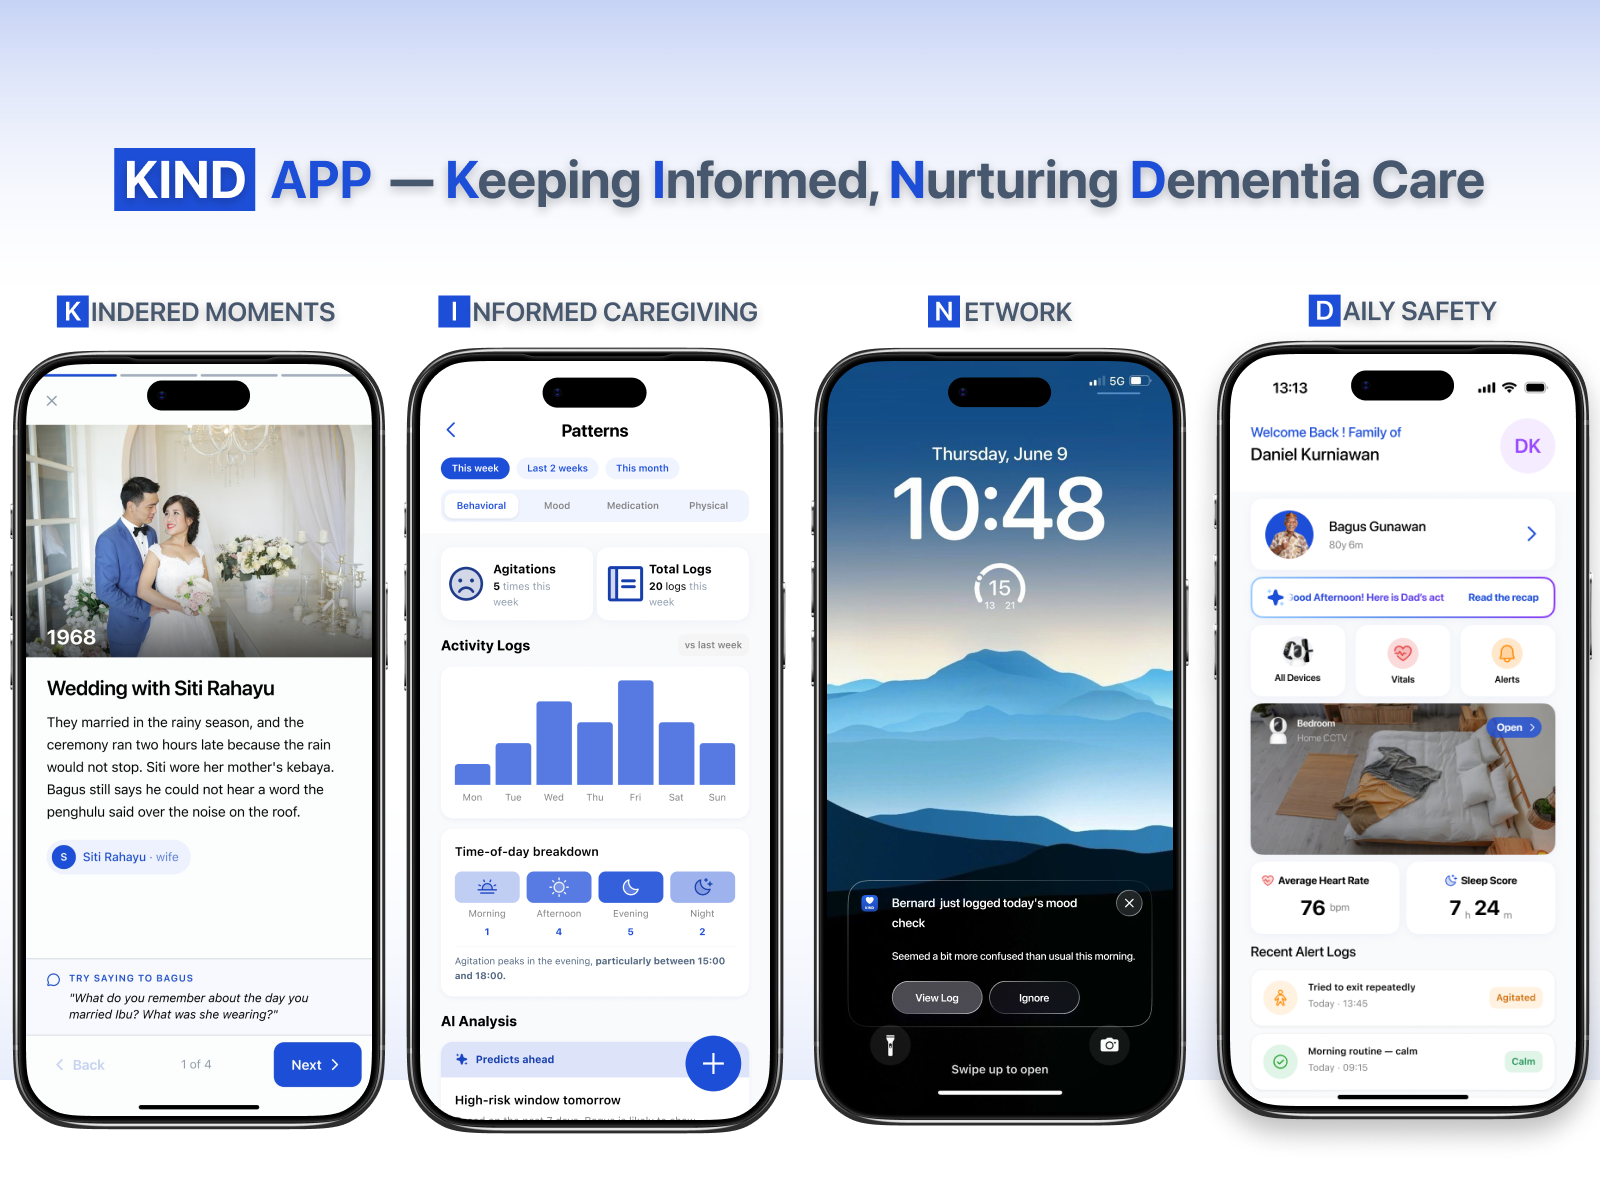
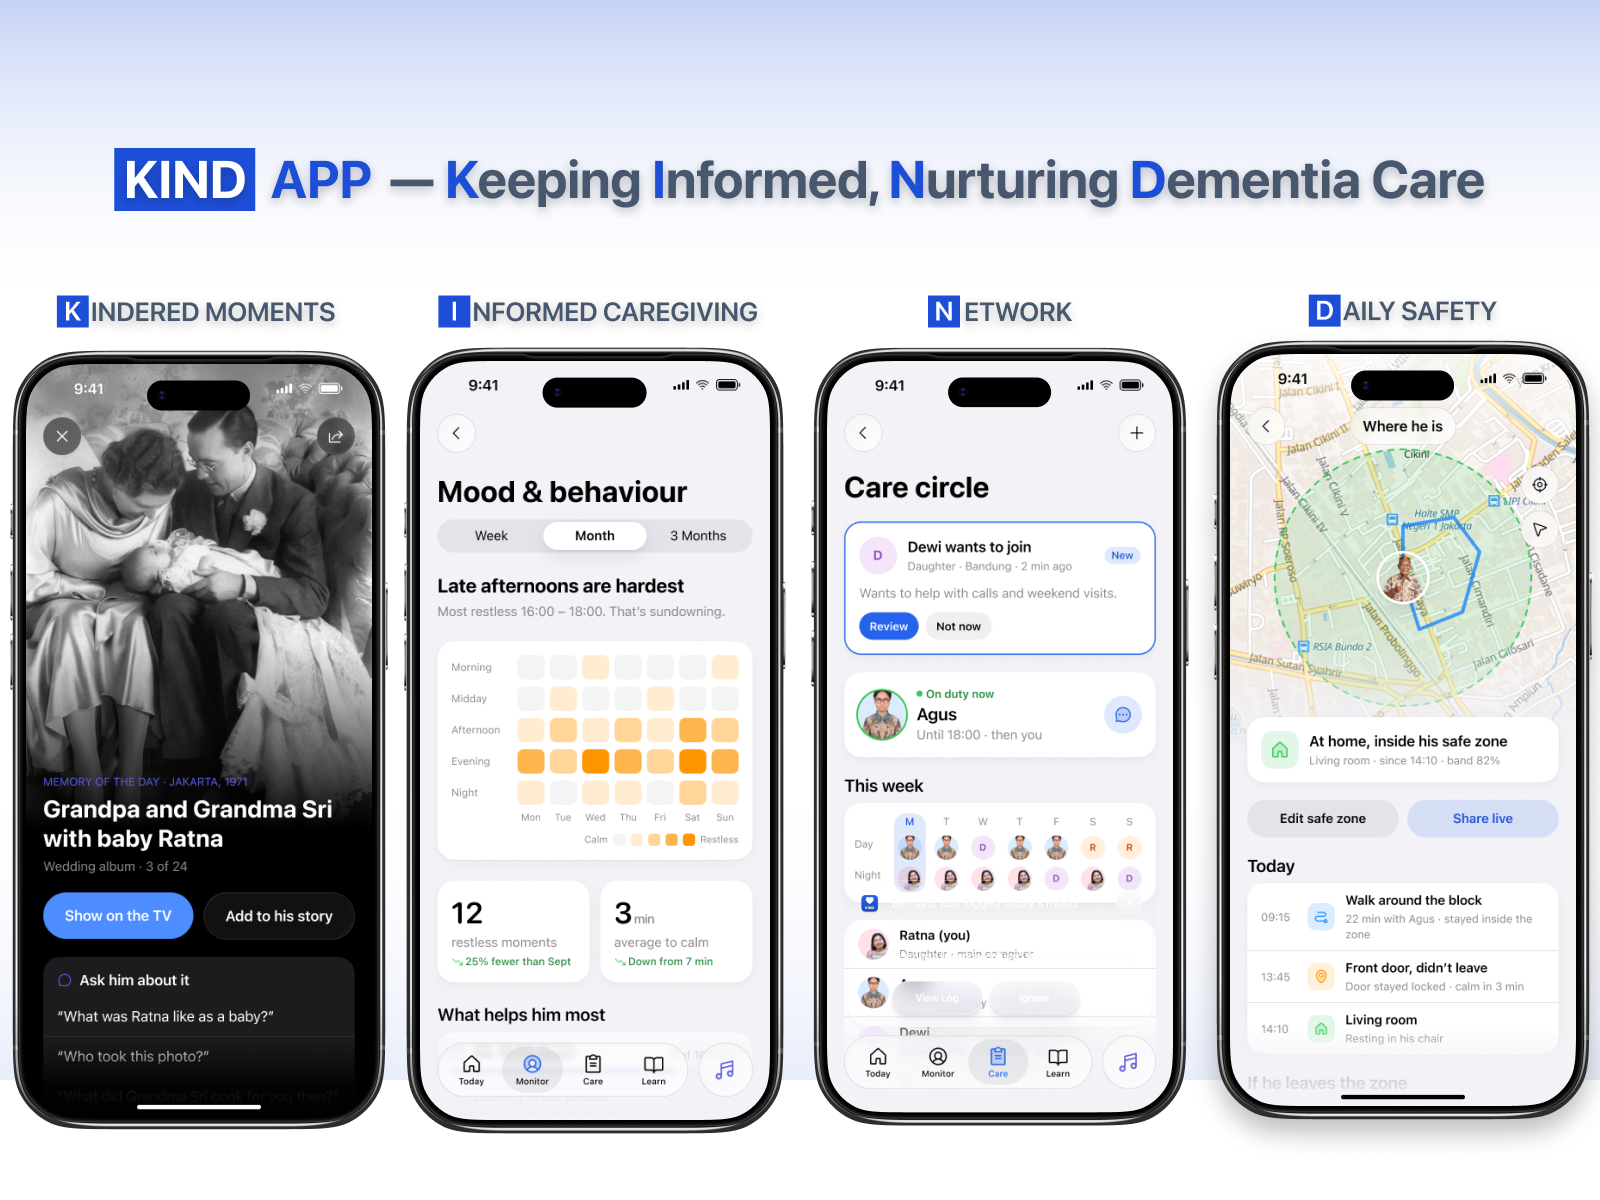
Add Growey and Saul projects, update KIND link, add resume link

diff --git a/src/app/page.tsx b/src/app/page.tsx
@@ -243,7 +243,7 @@ export default async function HomePage() {
                     rel="noreferrer"
                     className="link-underline"
                   >
-                    Résumé
+                    Access my resume
                   </a>
                 ) : null}
                 {profile?.socials
